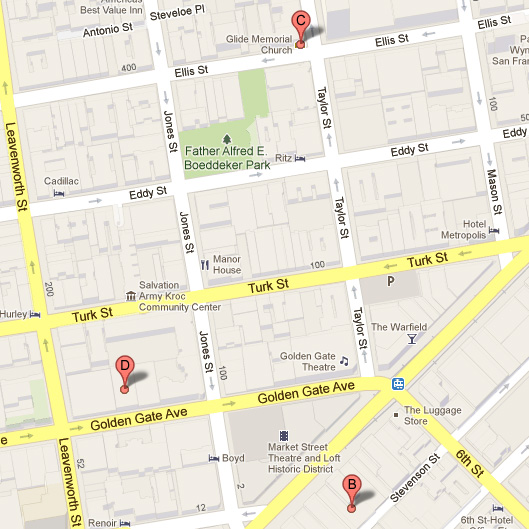
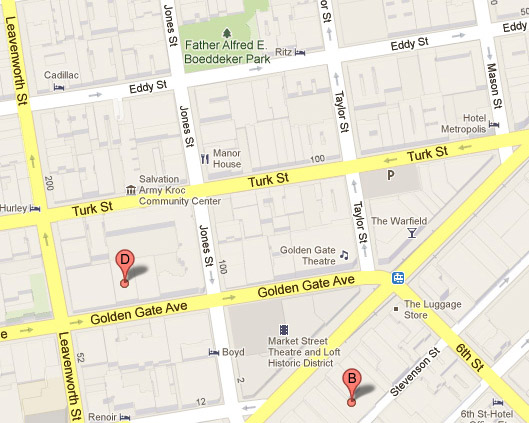
further styling tests

diff --git a/app/css/app.css b/app/css/app.css
@@ -40,6 +40,7 @@ body {
 .map img {
   width: 100%;
   height: auto;
+  border: 7px #fff solid;
 }
 
 .map {
@@ -75,12 +76,13 @@ ul {
   font-size: 1rem;
   text-align: left;
   padding: 0;
-  margin: 0 0.5rem;
+  margin: 0 2px;
 }
 
 li {
   background-color: #fff;
   margin-bottom: 2%;
+  border-left: solid 5px #add;
   /*border-radius: 1rem;*/
 }
 
@@ -104,6 +106,10 @@ li span {
 .card-container .info {
   font-size: 2rem;
   color: #999;
+}
+
+.card-container .time {
+  float: left;
 }
 
 @font-face {

diff --git a/app/partials/partial1.html b/app/partials/partial1.html
@@ -8,10 +8,9 @@
 <div class="card-container">
 	<ul>
 		<li>
-			<span class="blood-a">&#128167;</span>
-			<span class="time">8:30AM</span>
-			<span class="address">415 Jackson Street</span>
-			<span class="info">&#8505;</span>
+			<div class="time">8:30AM</div>
+			<div class="address">415 Jackson Street<span class="city">San Francisco, CA</span></div>
+			<div class="info">&#8505;</div>
 		</li>
 	</ul>
 </div>
